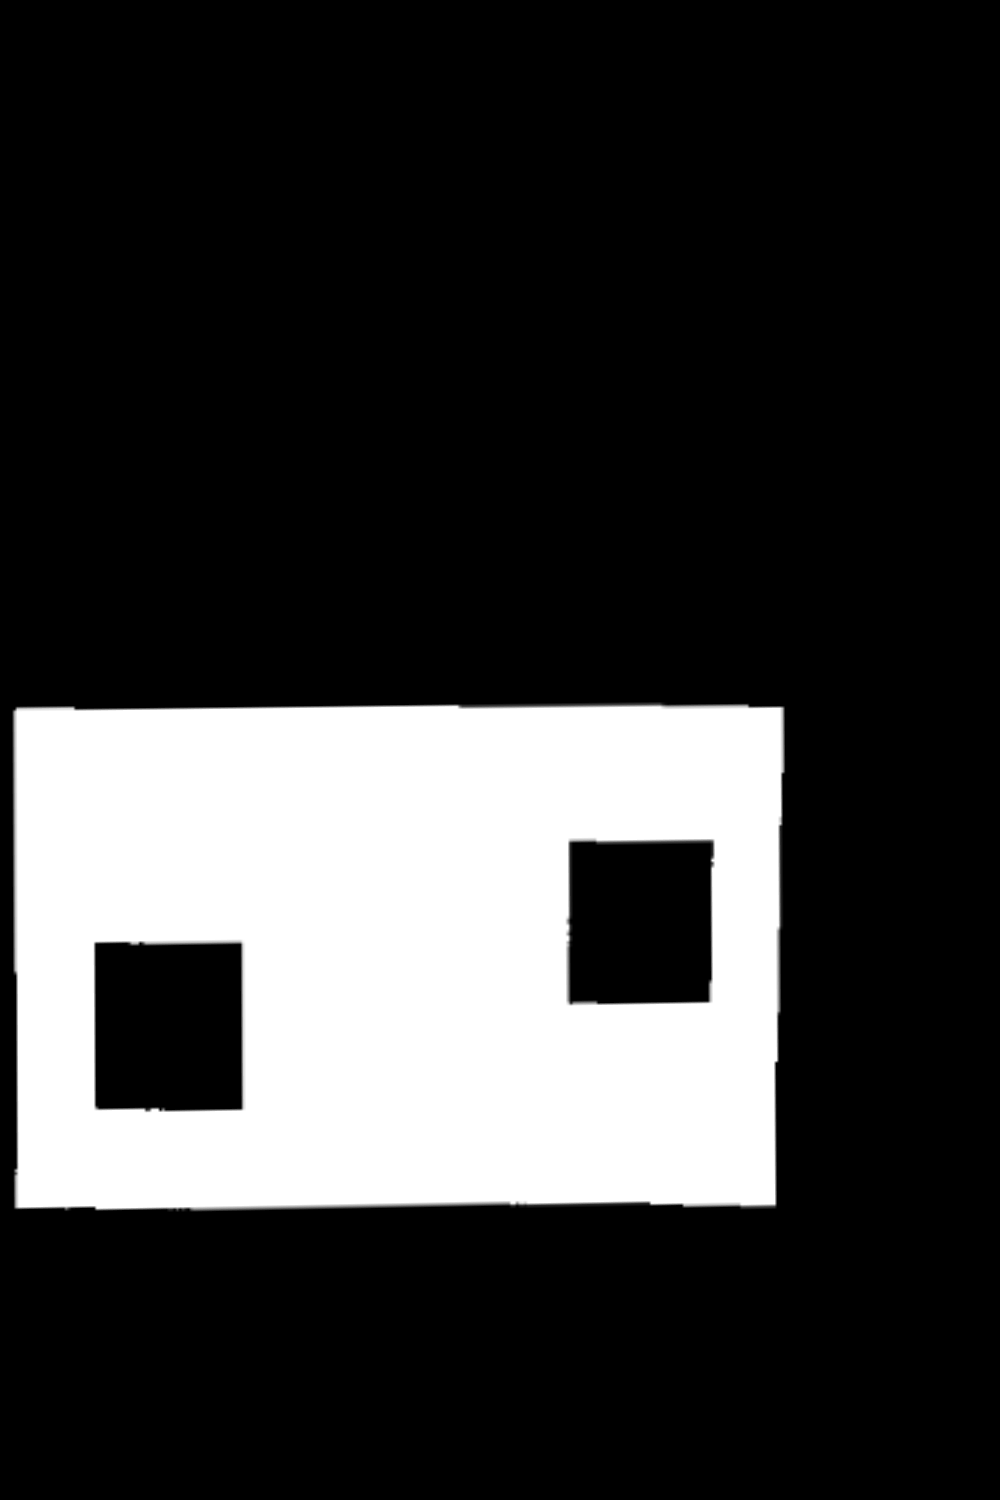
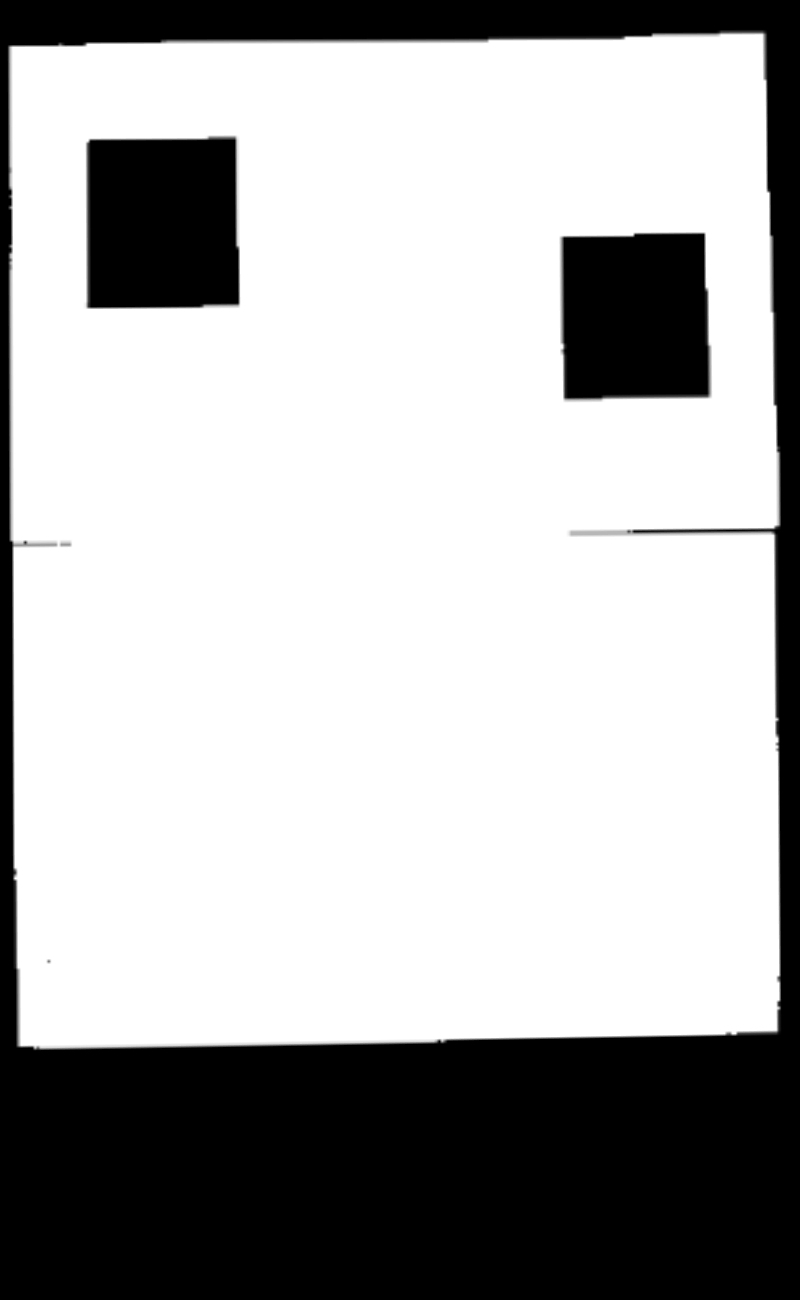
Program now outputs an SVG file with contours in cnc machine coordinates

diff --git a/Contour_to_SVG.py b/Contour_to_SVG.py
@@ -54,12 +54,13 @@ def transformation_matrix_calculation():
 def align_coordinate_systems(image):
     # flips the image around the y-axis
     flipped_y_axis = cv2.flip(image, 1)
-    (h, w) = frame.shape[:2]
+    (h, w) = flipped_y_axis.shape[:2]
     (cX, cY) = (w // 2, h // 2)
     # rotates the image around the center 90 degrees clockwise and scales it down by 70%
-    M = cv2.getRotationMatrix2D((cX, cY), -90, 0.7)
+    M = cv2.getRotationMatrix2D((cX, cY), 90, 0.7)
     rotated = cv2.warpAffine(flipped_y_axis, M, (w, h))
-    return rotated
+    flipped_y_axis = cv2.flip(rotated, 1)
+    return flipped_y_axis
 
 
 # sets size of display window
@@ -134,7 +135,7 @@ while True:
     if key_press & 0xFF == ord('s'):
         # Make the coordinate arrays
         rotated_image = align_coordinate_systems(thresh)
-        corrected_image = cv2.warpPerspective(rotated_image, h_matrix, (1000, 1500))
+        corrected_image = cv2.warpPerspective(rotated_image, h_matrix, (800, 1300))
         test_image = corrected_image.copy()
         fixed_contours, hierarchy = cv2.findContours(image=corrected_image, mode=cv2.RETR_TREE,
                                                      method=cv2.CHAIN_APPROX_SIMPLE)
@@ -144,7 +145,11 @@ while True:
         cy_data = []
         sheet = svg.Drawing('sheet.svg')
         # this for loop iterates through all the contour elements found by openCV
+        file_cont = open("./test.txt", "w+")
+        index = 1
         for cnt in fixed_contours:
+            file_cont.write("Contour object nr. {index}".format(index = index))
+            index += 1
             M = cv2.moments(cnt)
             # Finds the centers of all contour objects
             if M['m00'] is None or M['m00'] == 0:
@@ -163,11 +168,11 @@ while True:
                 y[i] = (cnt[i][0][1])
 
             # uncomment if you want to write contour coordinates to a text file
-            file_cont = open("./test.txt", "w+")
+
             for i in range(len(x)):
                 line = str(x[i]) + "," + str(y[i]) + "\n"
                 file_cont.writelines(line)
-            file_cont.close()
+
 
             for i in range(len(cnt) - 1):
                 sheet.add(sheet.line((x[i], y[i]), (x[i + 1], y[i + 1]), stroke=svg.rgb(0, 0, 0, '%')))
@@ -176,6 +181,7 @@ while True:
         print("Saving image...")
         cv2.imwrite("Saved_img/test_img.png", corrected_image)
         sheet.save()
+        file_cont.close()
 
 
     elif key_press & 0xFF == ord('q') or key_press == 27:
